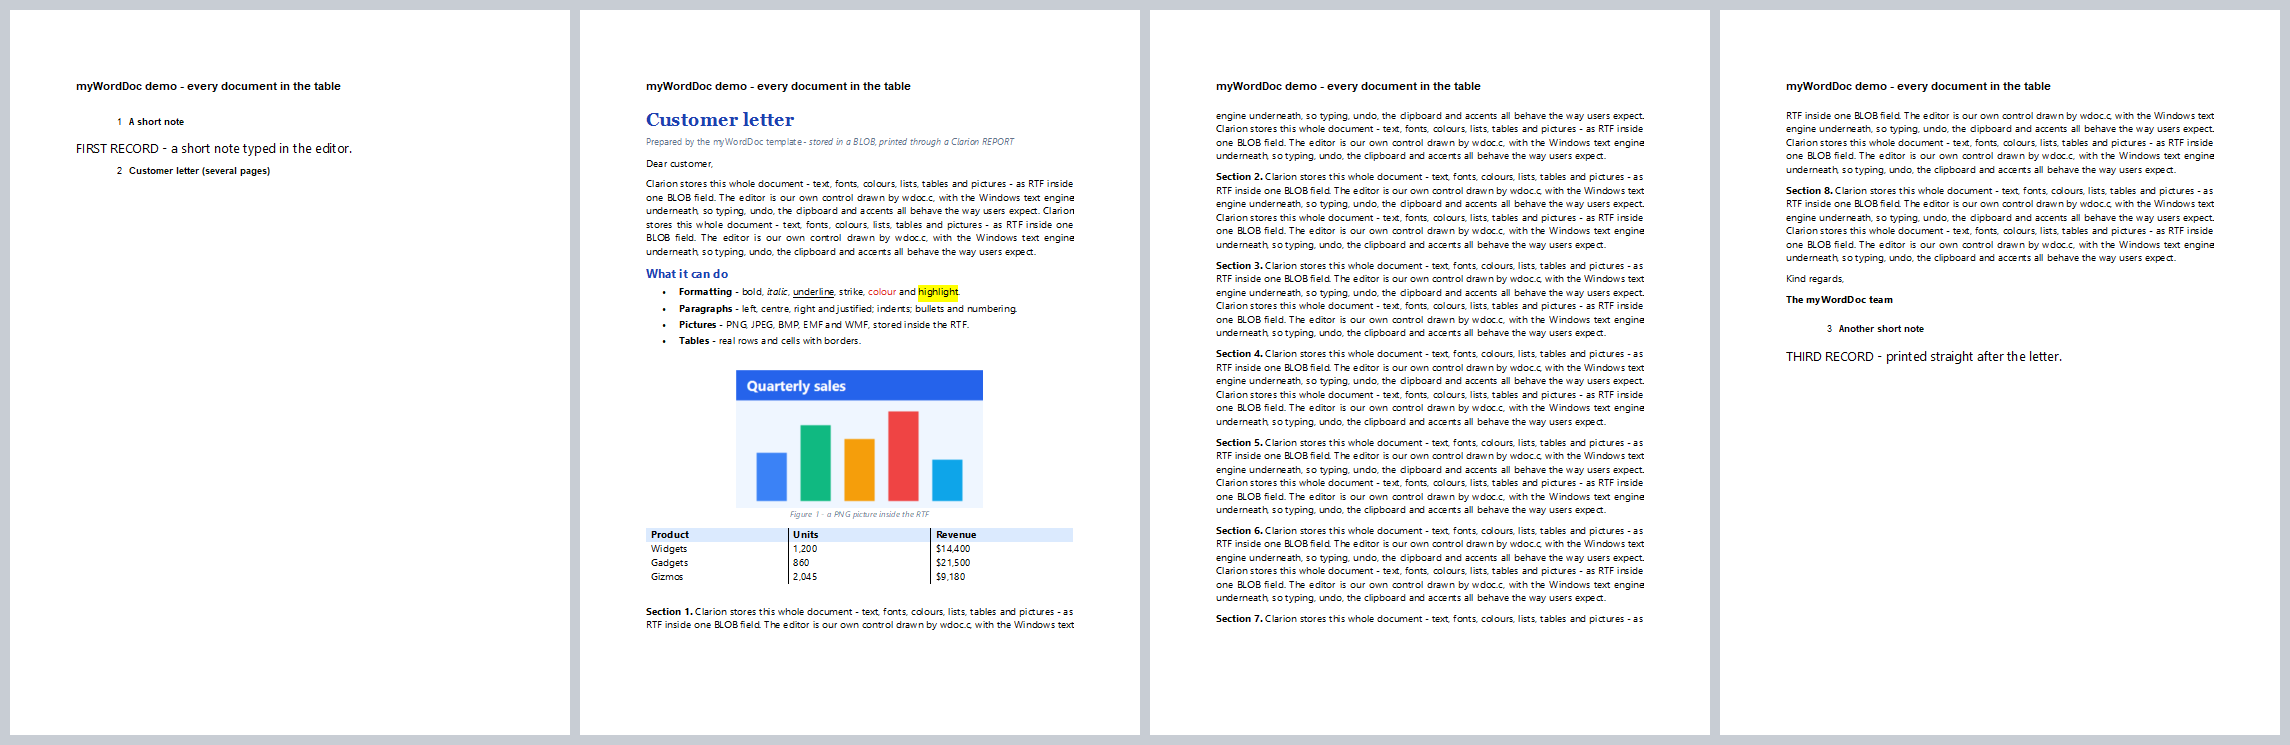
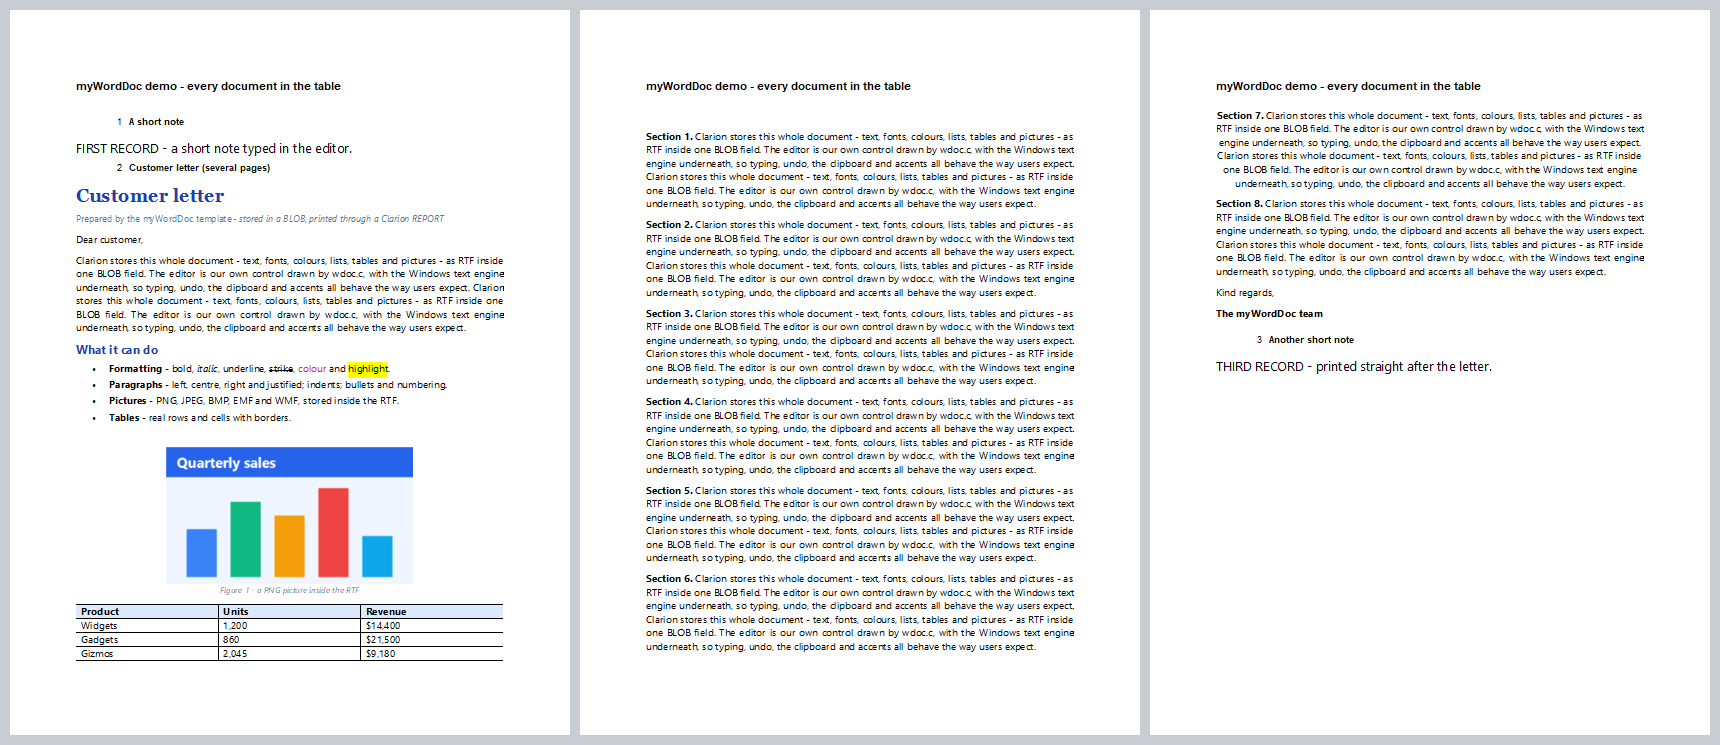
myWordDoc: print a document line by line to fill the room left on a page
PaginateForReport(..., WD:Flow) cuts the document one line per piece
(RichEdit always lays out at least one line). Each line is its own band, so
the report engine starts the document in whatever room the previous record
left and fills every page; a picture or table row never splits. The report
and code templates get a "Cut the document" setting, Flow by default.
WD:Pages keeps the old behaviour. Flow.clw compares the two.

Changed region(s): [[0.0308, 0.0, 1.0, 0.9879], [0.0308, 0.0926, 0.2157, 0.1235]]

diff --git a/templates/myWordDoc/README.md b/templates/myWordDoc/README.md
@@ -90,21 +90,48 @@ fill. Then, for each record:
 Doc1.InitHidden()                                  ! once, after OPEN(Report)
 ...
 Doc1.LoadBlob(DOC:Body)
-LOOP Page# = 1 TO Doc1.PaginateForReport(Report, ?DocImage)
-  Doc1.PreparePage(Report, ?DocImage, Page#)       ! page N into the IMAGE
+LOOP Page# = 1 TO Doc1.PaginateForReport(Report, ?DocImage, WD:Flow)
+  Doc1.PreparePage(Report, ?DocImage, Page#)       ! piece N into the IMAGE
   PRINT(RPT:DocBand)
 END
 ...
 Doc1.Kill()                                        ! deletes the temp files
 ```
 
-`PaginateForReport` reads the IMAGE's size (in any report units: it switches
-the report to thousandths for the read and back, as ABC's own
-ReportAttributeManager does) and splits the document into pieces exactly that
-big. A long document flows across as many report pages as it needs, so other
-bands print before and after it in the normal way. On the **last** piece the
-IMAGE and its band are shrunk to the text actually there, so whatever prints
-next follows straight on instead of after a blank page-sized gap.
+`PaginateForReport` reads the IMAGE's size in any report units. It switches the
+report to thousandths for the read and back, as ABC's own
+ReportAttributeManager does. Then it cuts the document in one of two ways.
+
+### WD:Flow: fill the room left on the page
+
+![the same three records printed both ways](../../docs/myWordDoc-flow-vs-pages.png)
+
+**`WD:Flow`** (the template's default) cuts the document **one line per
+piece**. Each line is printed as its own band, the height of that line. The
+report engine places every band itself: if it fits on this page it goes here,
+and if not it starts the next page. So a long document starts in whatever room
+the previous record left. It fills that page, carries on over as many pages as
+it needs, and whatever prints after it follows straight on.
+
+The report engine cannot tell a program how much room is left on a page, and it
+moves a band that doesn't fit whole to the next page. Letting the engine place
+one line at a time avoids both problems, and nothing has to be measured.
+
+- A line is never split: a picture or a table row that doesn't fit moves to the
+  next page whole, as in Word.
+- In this mode the band is cut down to the line, so **keep the IMAGE alone in
+  its band**. Its top is moved to 0 while printing and put back afterwards.
+- One small metafile is written per line, and all of them are deleted by
+  `Kill()`. A 3-page letter is about 70 files.
+
+### WD:Pages: pieces the size of the IMAGE
+
+**`WD:Pages`** (the class default, and what earlier versions did) cuts the
+document into pieces exactly the size of the IMAGE. When the next piece won't
+fit in the room left, the engine starts a new page, which can leave most of a
+page empty. With `pShrinkLast` (on by default) the **last** piece's IMAGE and
+band are shrunk to the text actually there, so whatever prints next follows
+straight on.
 
 Each piece is rendered by RichEdit (`EM_FORMATRANGE`) into an enhanced
 metafile, then written as a placeable WMF in `%TEMP%`. The report engine plays
@@ -189,14 +216,15 @@ ABC's Child File extension uses), so it never prints twice. For each record it:
 1. re-reads the record by its primary key, because a VIEW read leaves BLOBs
    untouched;
 2. loads the document;
-3. prints it page by page.
-
-The last page is shrunk unless you turn that off.
+3. prints it, cut as **Cut the document** says. The default is *Fill the room
+   left on each page, line by line* (`WD:Flow`). *In pieces the size of the
+   image* (`WD:Pages`) brings back the **Shrink the last piece** option.
 
 ![three records through the generated report](../../docs/myWordDoc-demo-report.png)
 
-*The generated `PrintDocs` report over three records: a short note, a letter
-that flows over three pages, and another note printed straight after it.*
+*The generated `PrintDocs` report over three records. The letter starts right
+under its title on page 1, fills every page down to the footer, and the third
+note follows straight after it.*
 
 ![the report preview, page 2](../../docs/myWordDoc-demo-preview.png)
 
@@ -217,6 +245,7 @@ band to PRINT. In the report designer, set that band's **Detail Filter** to
 | Printed text is limited to the ANSI code page | WMF text records are 8-bit | Fine for Western languages; Greek/Cyrillic/CJK show on screen and in the BLOB but not in print |
 | Printed pictures are 200 dpi | keeps report pages and PDFs small | `PIC_DPI` in `wdoc.c` |
 | No headers/footers/page numbers inside the document | the document is a band, not a page | use the REPORT's own header/footer |
+| `WD:Flow` keeps a paragraph's space-before when it starts a page | each line is printed exactly as laid out | barely visible; use `WD:Pages` if it matters |
 
 ## Verified
 
@@ -234,6 +263,10 @@ band to PRINT. In the report designer, set that band's **Detail Filter** to
 - `click.ps1` clicks the toolbar the same way and photographs the result.
 - `shot.ps1` takes screen captures (not `PrintWindow`, which hides a hosted
   control that is being painted over).
+
+`Flow.clw` (built the same way from `Flow.cwproj`) prints a short note, the
+long letter and another note in one report, as `WD:Flow` or, with `PAGES` on
+the command line, as `WD:Pages`. The comparison image above comes from it.
 
 `examples/myWordDoc/WordDemo/` proves the templates through AppGen: `build_demo.sh`
 registers the template through a local redirection file, so nothing is copied

diff --git a/README.md b/README.md
@@ -1483,7 +1483,7 @@ Text is measured on the default printer, so the lines break exactly where they w
   opens and saves it with the record when it was edited. You can choose a toolbar, read only, page view,
   Letter or A4 width, and the default font.
 - **myWordDocReport** (report extension): pick the BLOB and an IMAGE in a detail band. It prints every
-  record's document and keeps ABC from printing that band twice.
+  record's document and keeps ABC from printing that band twice. By default the document is printed line by line, so it starts in the room the previous record left and fills every page.
 - **myWordDocPrintBlob** (code template): the same print loop in any embed.
 - `WordDocClass` gives the same features to hand code: `LoadBlob`/`SaveBlob`, formatting, `InsertImage`,
   `InsertTable`, `Find`, `PaginateForReport`/`PreparePage`.
